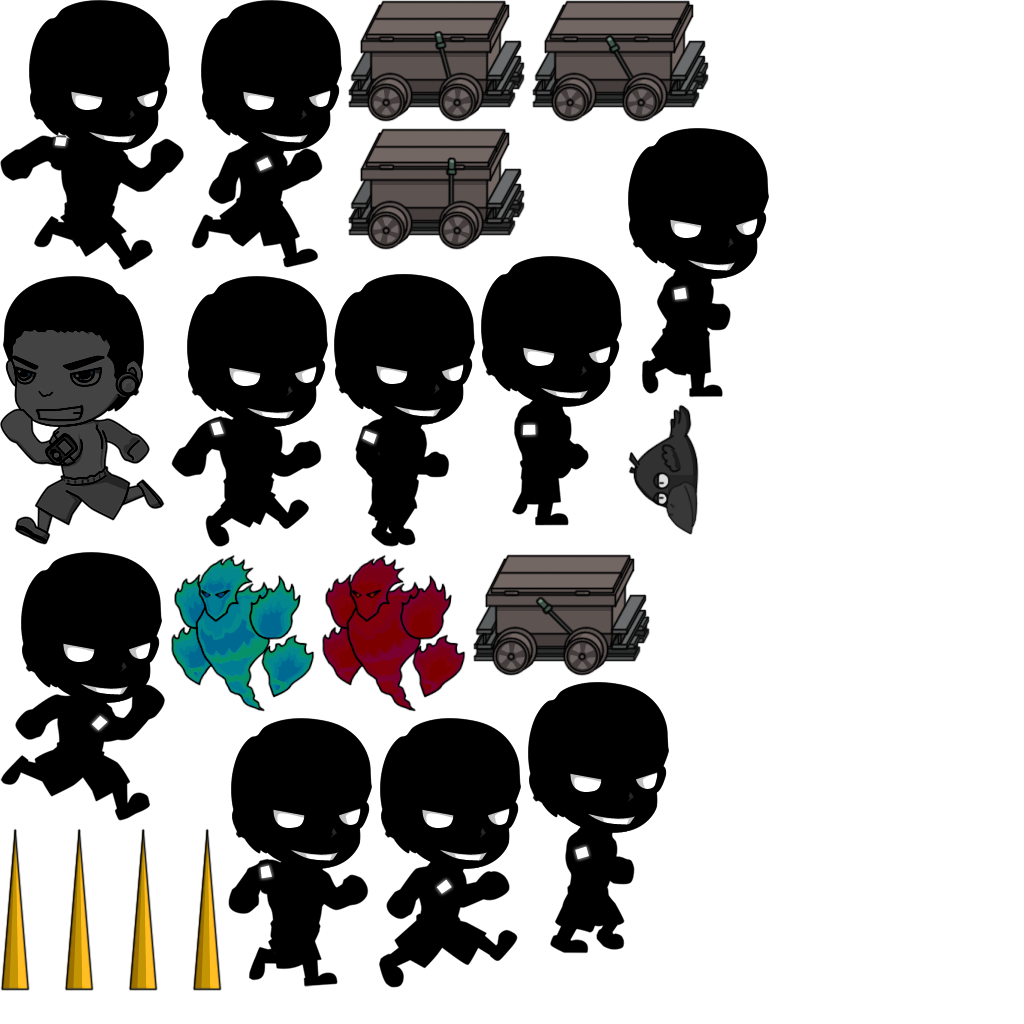
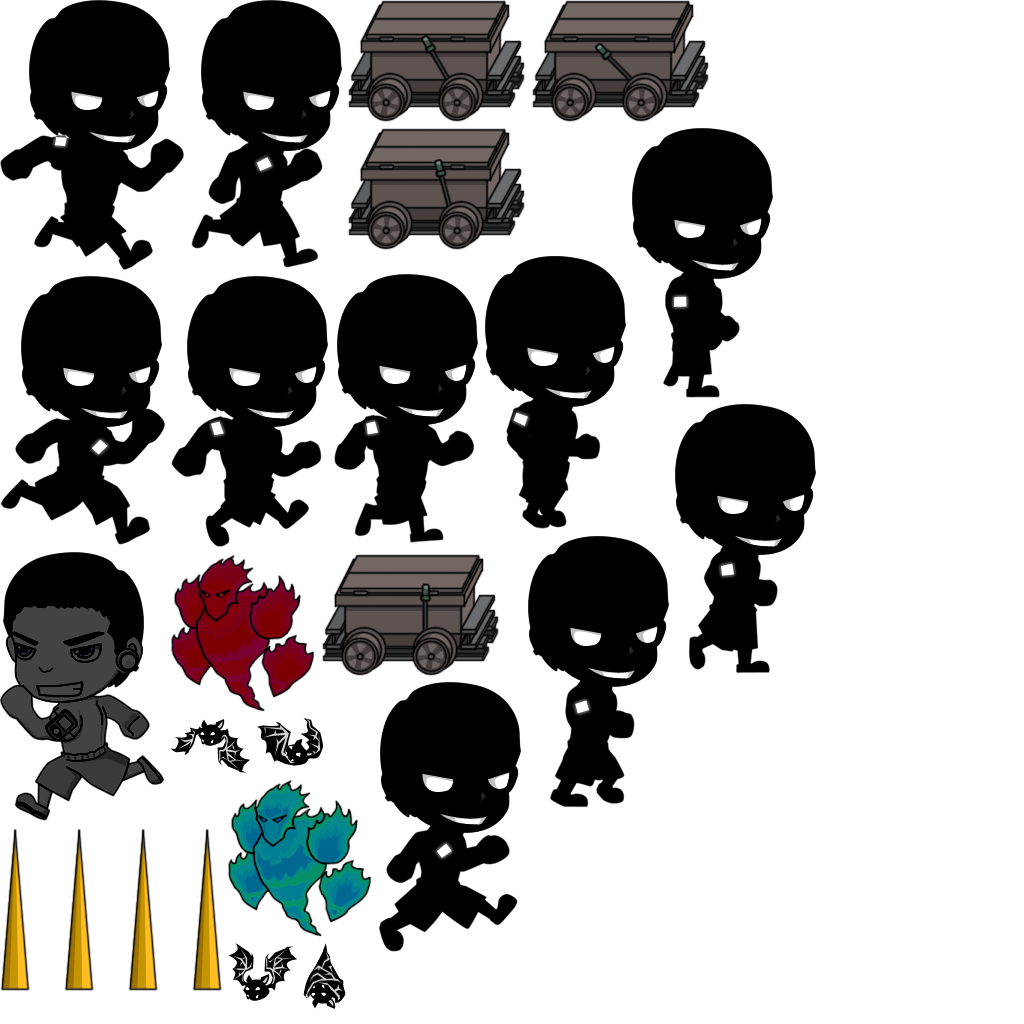
Updated sprite sheet to add bats.

diff --git a/Clay/Classes/Game/Bosses/BossFinalJim.m b/Clay/Classes/Game/Bosses/BossFinalJim.m
@@ -93,6 +93,16 @@
 {
 }
 
+-(void)triggerGetCloser
+{
+    
+}
+
+-(void)triggerFallBack
+{
+    
+}
+
 -(void)update:(float)dt
 {
     //have to reposition for now because the position gets set like three times in gameobject, but for the time being we need to call it

diff --git a/Clay/Classes/Game/Bosses/BossFinalJim.h b/Clay/Classes/Game/Bosses/BossFinalJim.h
@@ -35,6 +35,10 @@
 
 -(void)switchToPhase:(BossPhase)phase;
 -(void)triggerAttack;
+
+-(void)triggerGetCloser;
+-(void)triggerFallBack;
+
 -(void)updateTransition:(float)dt;
 -(void)endTransition;
 
